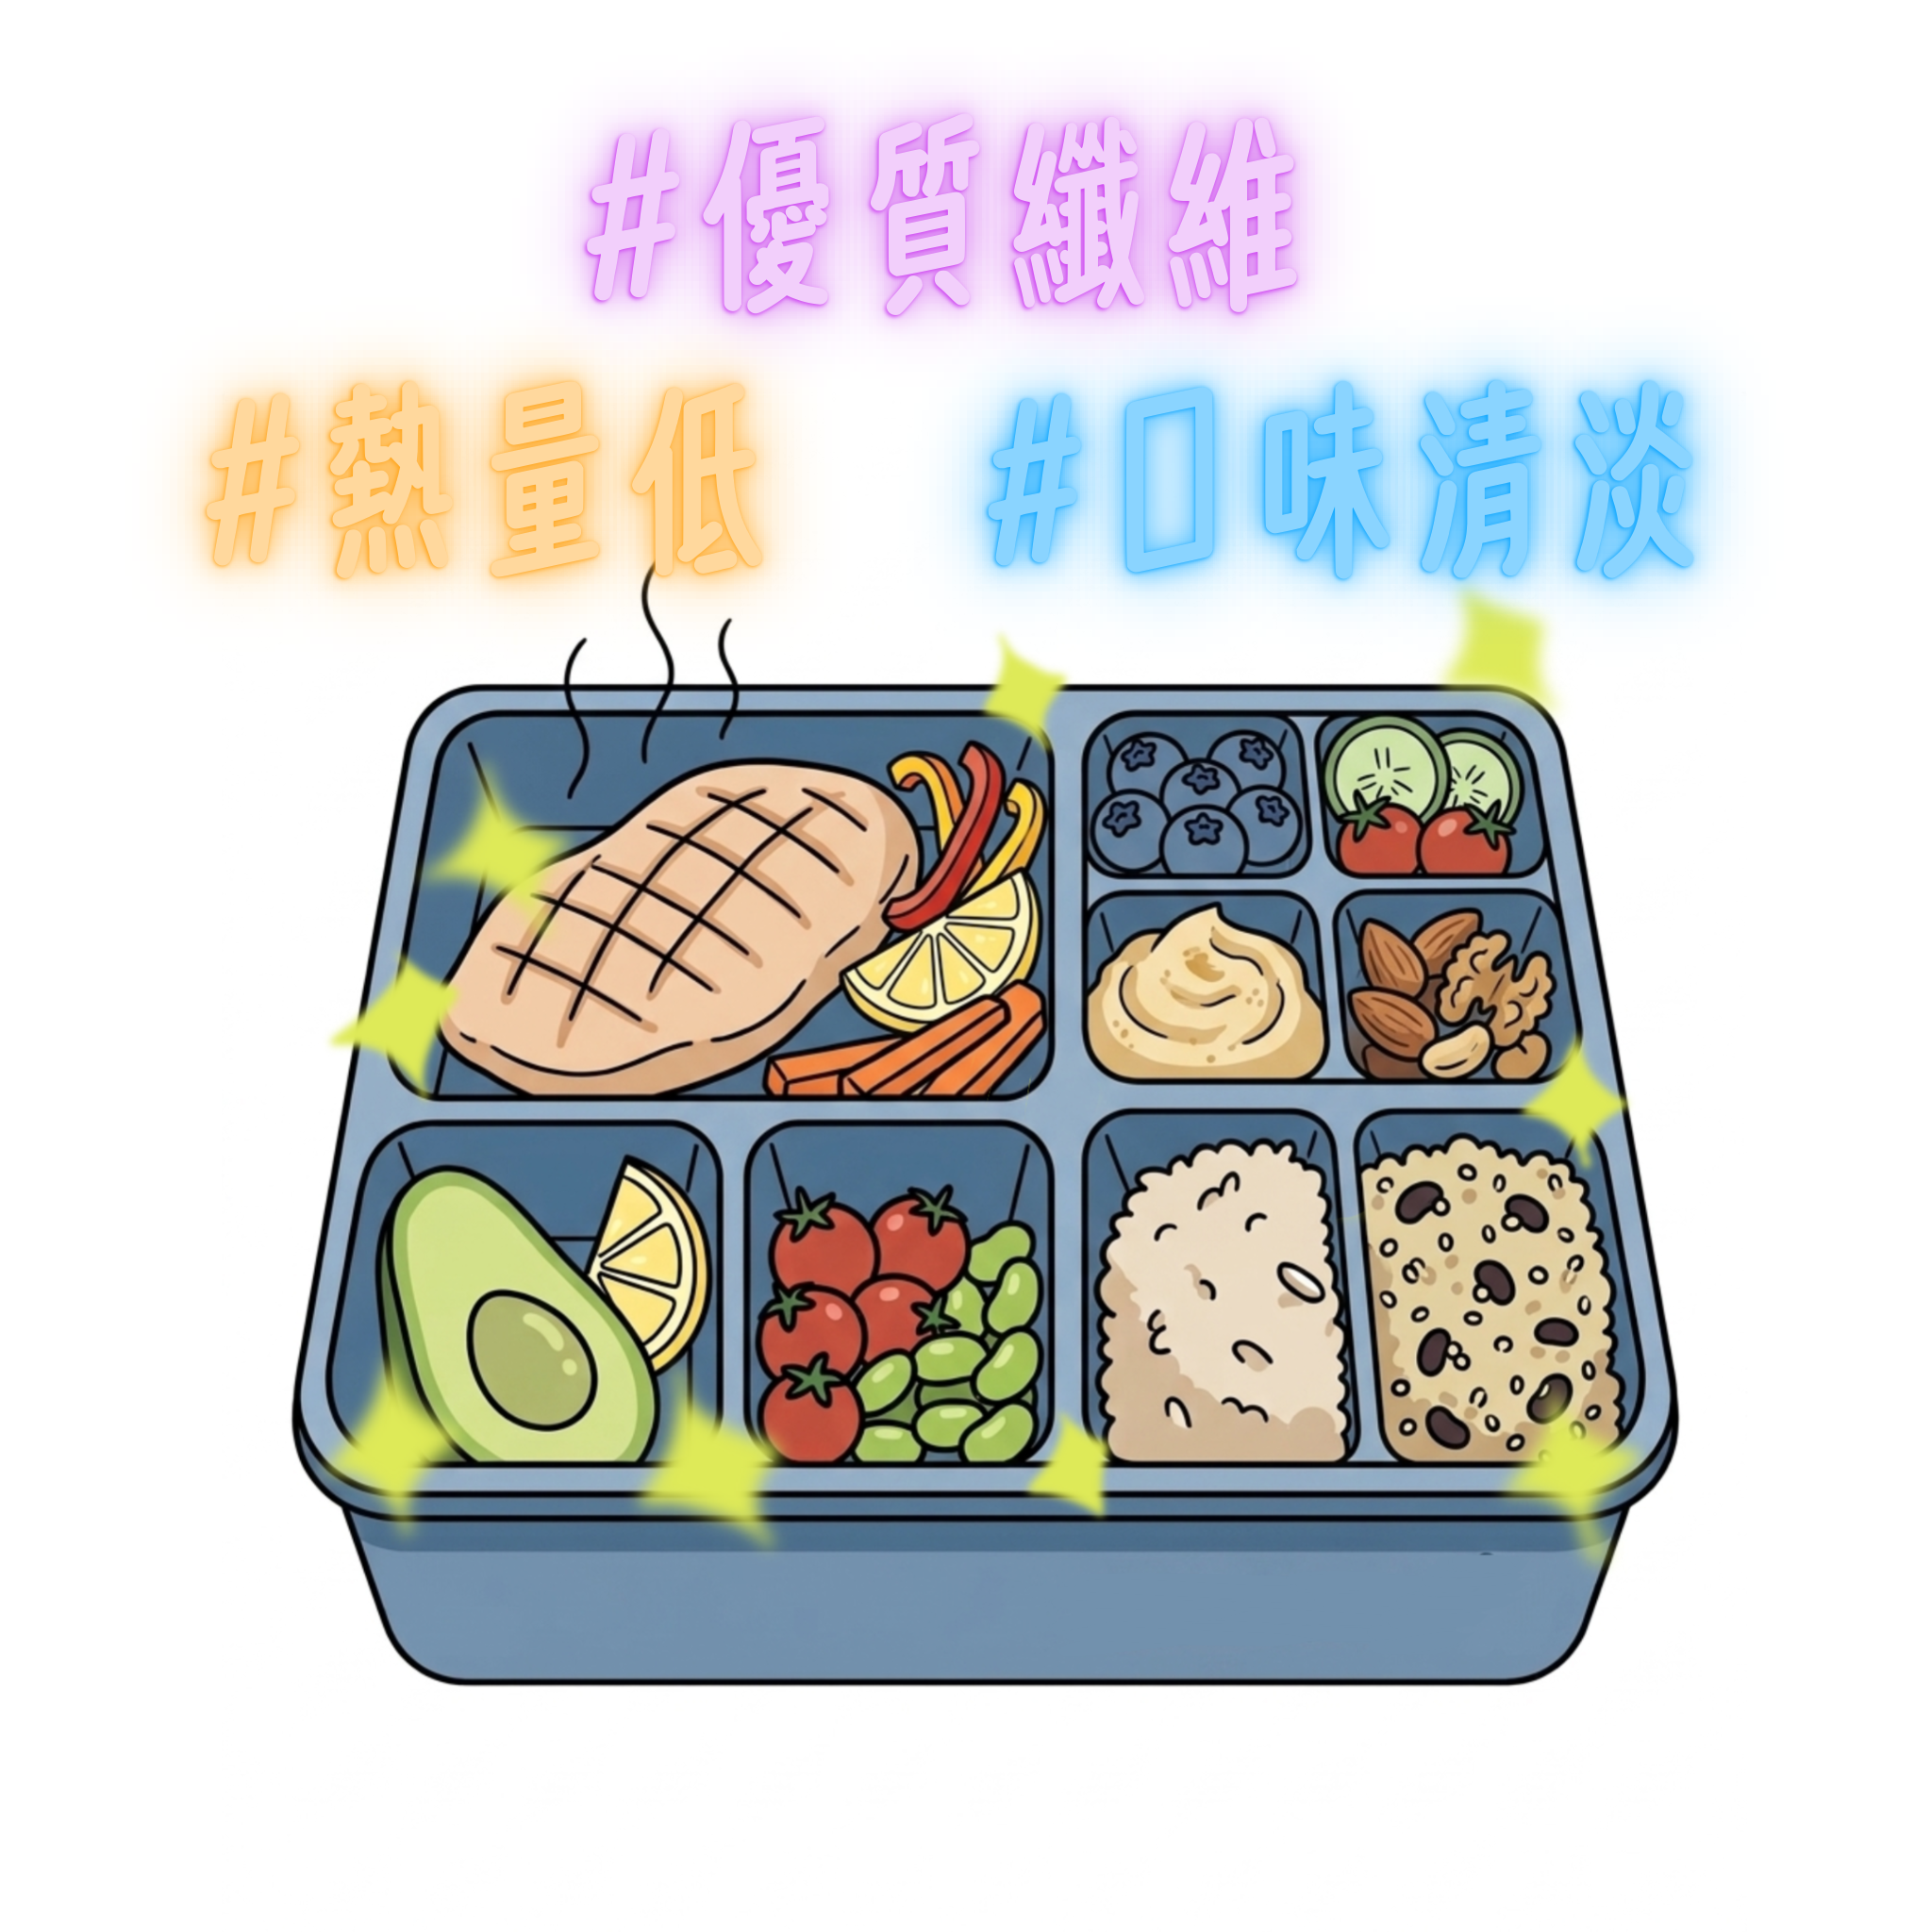
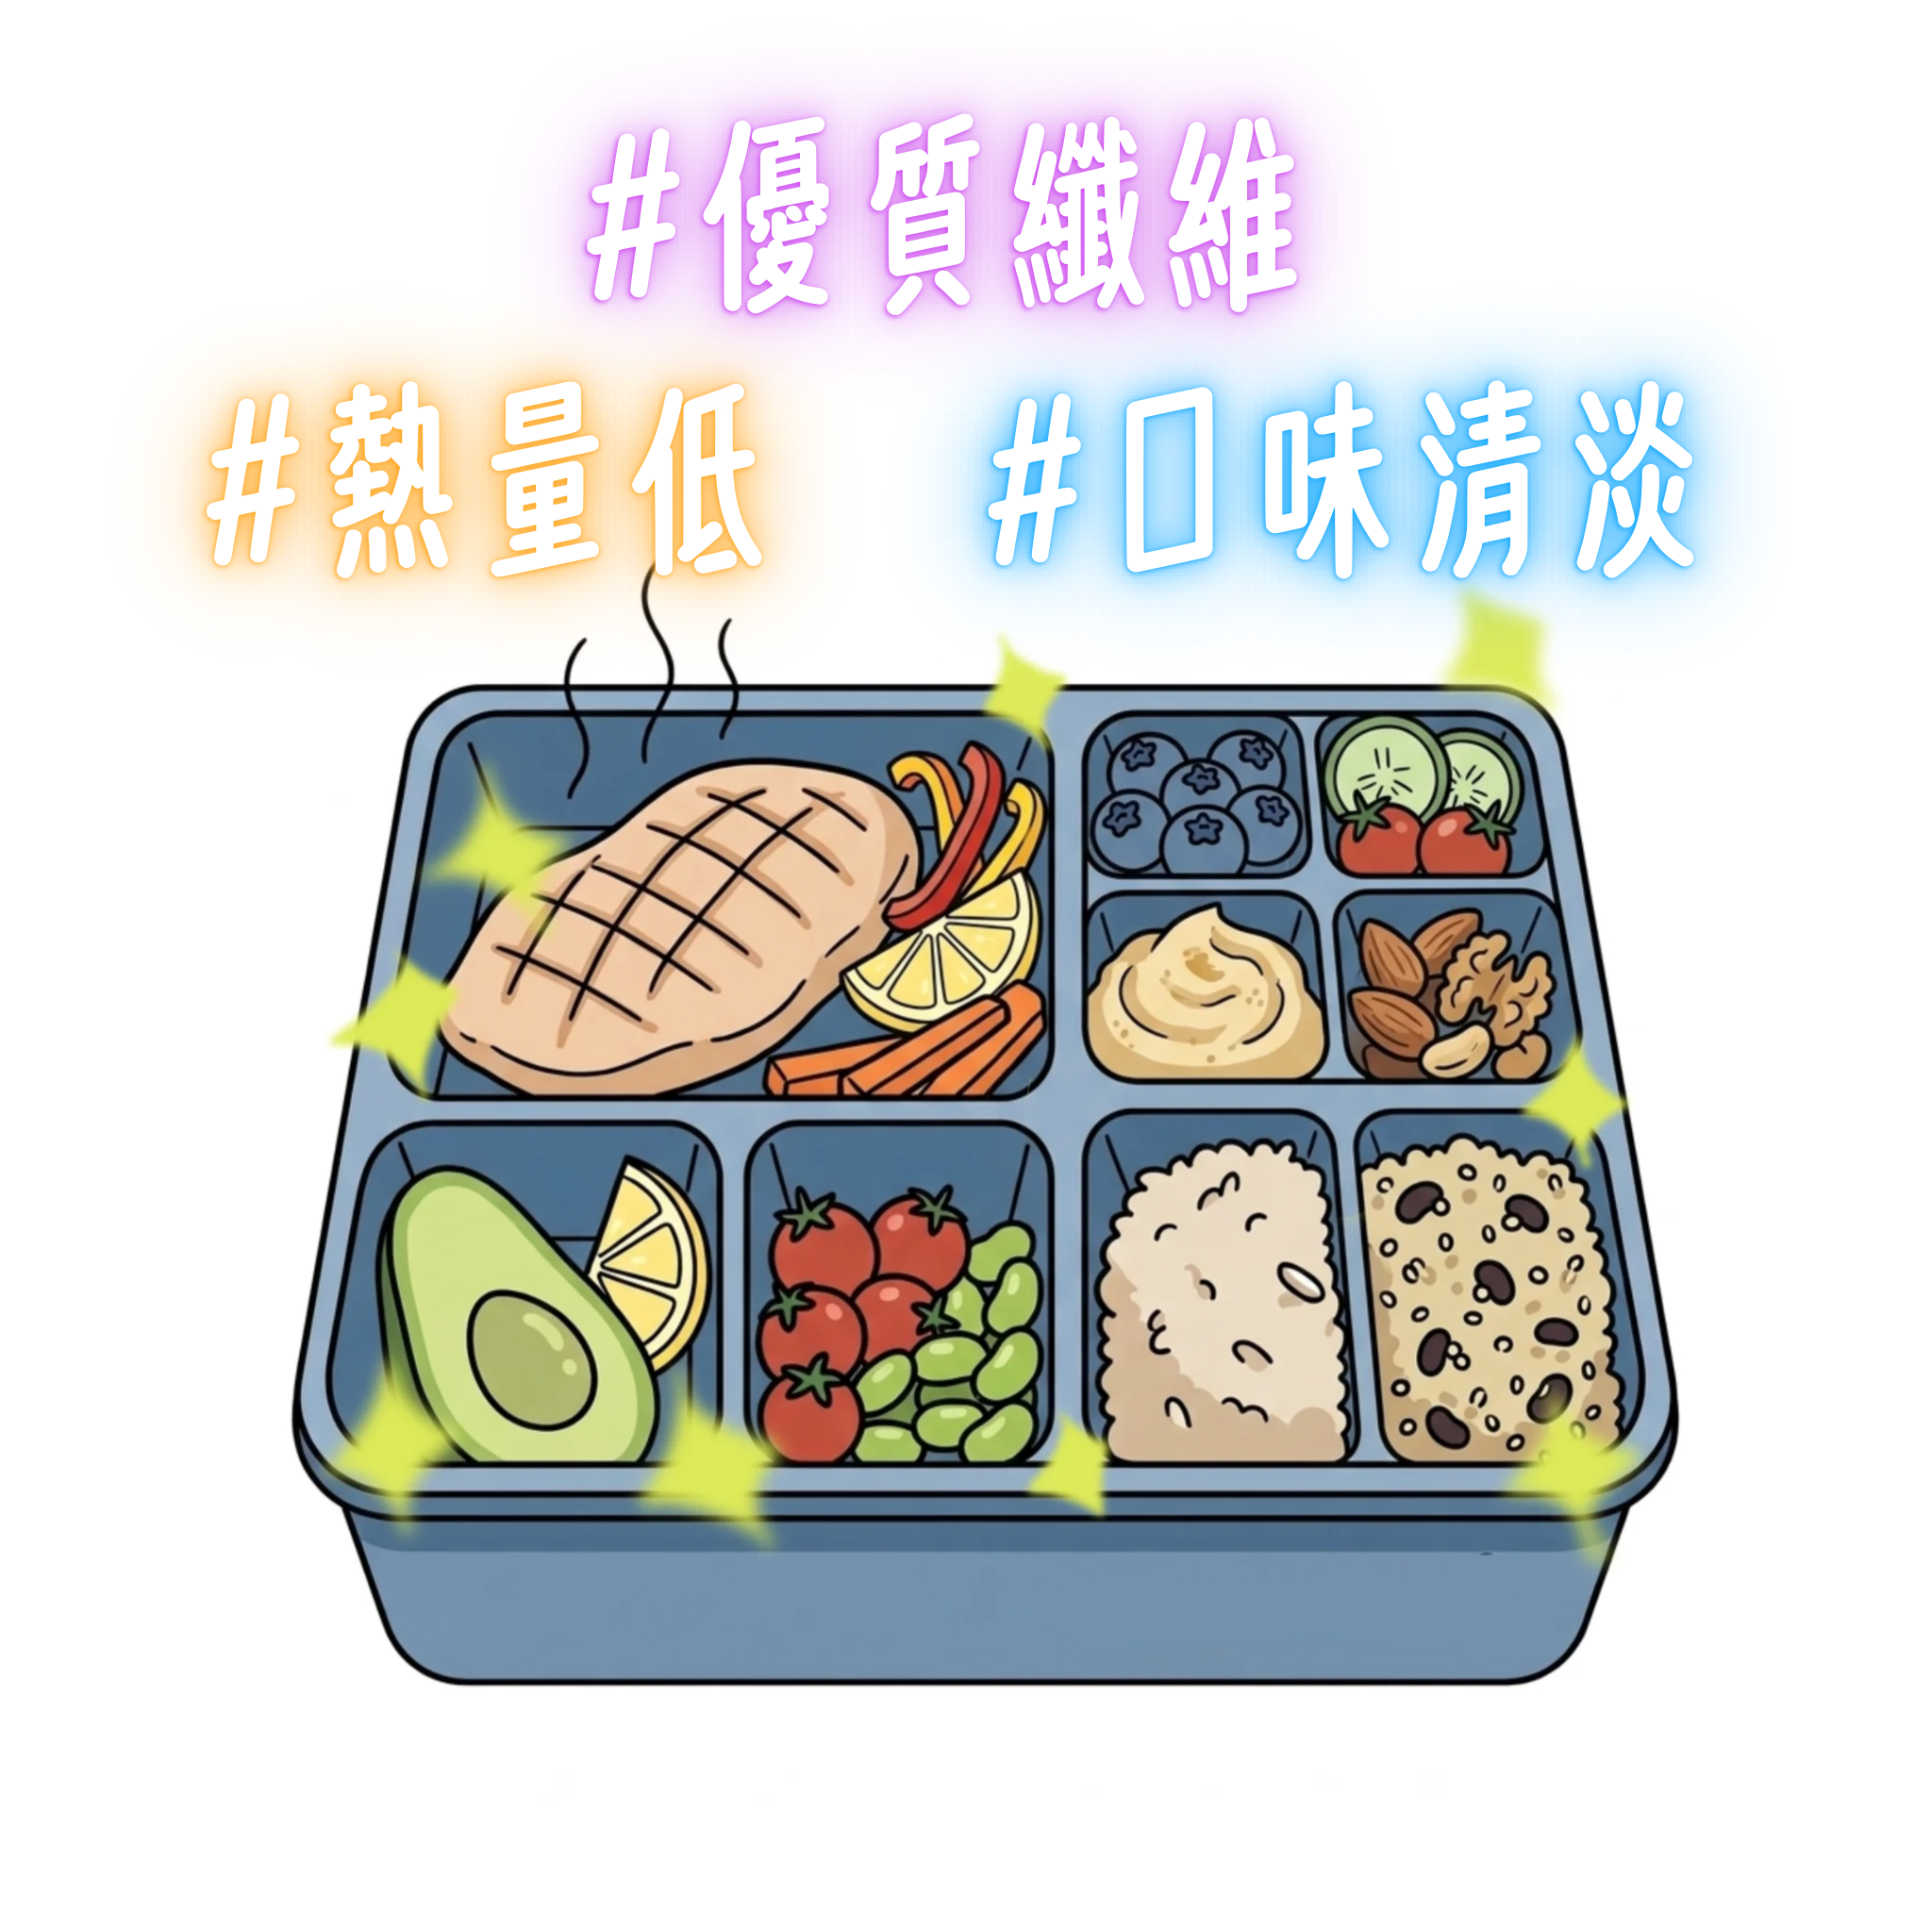
Update comic and profile visuals

diff --git a/style.css b/style.css
@@ -370,7 +370,7 @@ button:active,
 }
 
 .opening-comic-video-page {
-  --opening-video-frame-width: min(48vw, 540px);
+  --opening-video-frame-width: min(760px, 100%);
   width: 100%;
   display: grid;
   place-items: center;
@@ -379,12 +379,19 @@ button:active,
 
 .opening-comic-empty-page {
   width: var(--opening-video-frame-width);
-  aspect-ratio: 4 / 5;
+  height: 100%;
   display: grid;
   place-items: center;
   border: 1px solid #000;
   background: #fff;
   box-sizing: border-box;
+}
+
+.opening-comic-empty-page img {
+  width: 100%;
+  height: 100%;
+  object-fit: contain;
+  display: block;
 }
 
 .opening-comic-empty-page h2 {
@@ -1557,7 +1564,7 @@ button:active,
   color: #2f3133;
   letter-spacing: 0;
   position: relative;
-  z-index: 1;
+  z-index: auto;
 }
 
 #intro-text .xinmi-intro-copy p {
@@ -1575,6 +1582,7 @@ button:active,
   gap: 10px;
   pointer-events: none;
   user-select: none;
+  z-index: 6;
 }
 
 .xinmi-speaker-portrait {
@@ -1585,17 +1593,25 @@ button:active,
 
 .xinmi-speaker figcaption {
   width: fit-content;
-  max-width: min(100%, 24em);
+  max-width: min(100%, 22em);
   padding: 9px 14px;
   border: 2px solid #000;
   background: #fff;
   color: #000;
-  font-size: clamp(0.82rem, 1.08vw, 1rem);
+  font-size: clamp(0.74rem, 1vw, 1rem);
   font-weight: 900;
-  line-height: 1.35;
+  line-height: 1.38;
   text-align: center;
   box-sizing: border-box;
   pointer-events: none;
+  overflow-wrap: anywhere;
+}
+
+.xinmi-speaker-data {
+  display: block;
+  margin-top: 8px;
+  font-weight: 400;
+  line-height: 1.75;
 }
 
 .xinmi-card-scroll.has-active-card .xinmi-intro-copy p {
@@ -1813,6 +1829,19 @@ button:active,
   background: #f4f0ea;
 }
 
+@media (max-width: 1180px) {
+  .xinmi-speaker {
+    left: clamp(-270px, -22vw, -180px);
+    width: clamp(220px, 27vw, 340px);
+  }
+
+  .xinmi-speaker figcaption {
+    max-width: min(100%, 18em);
+    padding: 8px 12px;
+    font-size: clamp(0.68rem, 0.95vw, 0.92rem);
+  }
+}
+
 @media (max-width: 760px) {
   #intro-text {
     padding-top: 72px;
@@ -1829,8 +1858,18 @@ button:active,
     position: relative;
     left: auto;
     top: auto;
-    width: min(180px, 46vw);
-    margin: 0 0 18px -10px;
+    width: min(100%, 480px);
+    margin: 0 auto 22px;
+    grid-template-columns: minmax(112px, 34vw) minmax(0, 1fr);
+    align-items: center;
+    justify-items: center;
+    gap: 12px;
+  }
+
+  .xinmi-speaker figcaption {
+    width: 100%;
+    max-width: none;
+    font-size: clamp(0.76rem, 3.1vw, 0.95rem);
   }
 
   .xinmi-card-scroll {
@@ -3673,17 +3712,15 @@ button:active,
   }
 
   .opening-comic-video-page {
-    --opening-video-frame-width: min(76vw, 340px);
     width: min(100%, 430px);
-    height: auto;
-    min-height: 100%;
+    height: 100%;
     place-items: center;
   }
 
   .opening-comic-empty-page {
-    width: var(--opening-video-frame-width);
-    aspect-ratio: 4 / 5;
-    height: auto;
+    width: 100%;
+    height: 100%;
+    border: 0;
     justify-self: center;
   }
 

diff --git a/index.html b/index.html
@@ -75,7 +75,7 @@
           <img src="./pic/opening-comic/7.jpg" alt="開場漫畫 7" data-comic-panel />
           <article class="opening-comic-video-page" data-comic-panel aria-label="開場漫畫結尾">
             <div class="opening-comic-empty-page">
-              <h2>結尾</h2>
+              <img src="./pic/opening-comic/ending-hard.png" alt="減肥怎麼那麼難" />
             </div>
           </article>
         </div>
@@ -92,7 +92,10 @@
         <div class="text-column xinmi-intro-copy">
           <figure class="xinmi-speaker">
             <img class="xinmi-speaker-portrait" src="./pic/xinmi/speaker.png" alt="鍾心咪人物插圖" />
-            <figcaption>國立政治大學廣電系學生鍾心咪</figcaption>
+            <figcaption>
+              <span>國立政治大學廣電系學生鍾心咪</span>
+              <span class="xinmi-speaker-data">年齡：21歲<br />身高/體重：160cm/49kg<br />理想體重：47kg</span>
+            </figcaption>
           </figure>
           <p>「我每天起床後，都會量我自己的腿圍，確認他有沒有變細一點。」國立政治大學廣電系學生鍾心咪說道，因為從小屬於梨形身材，對於自己的腿部線條非常在意，尤其是大腿的部分。
 </p>